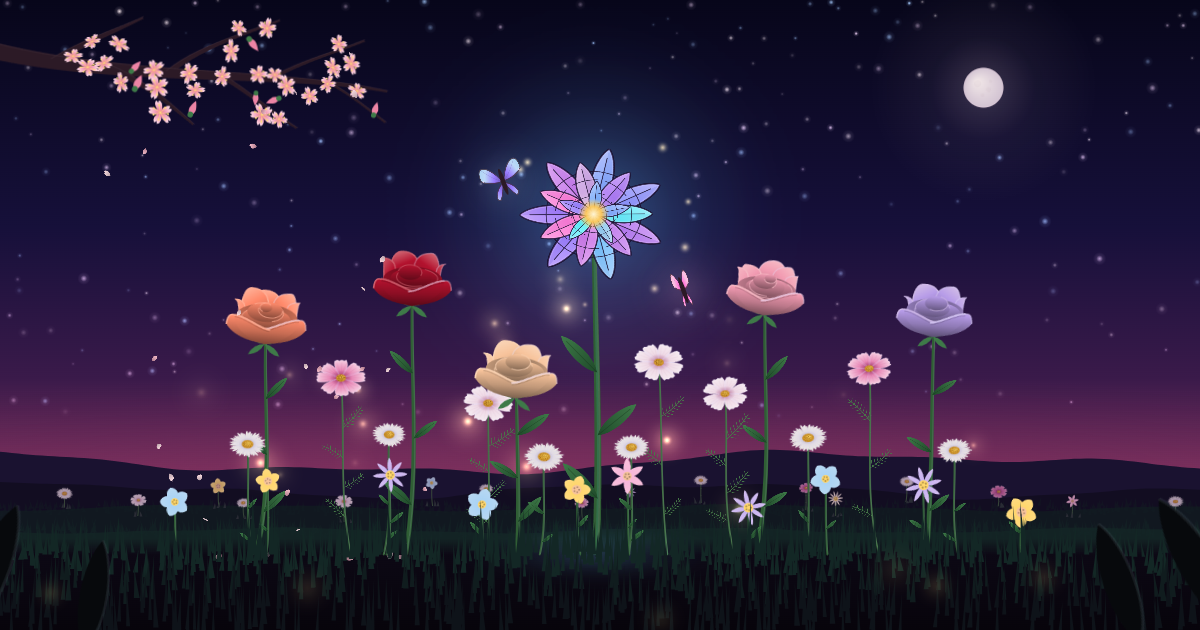
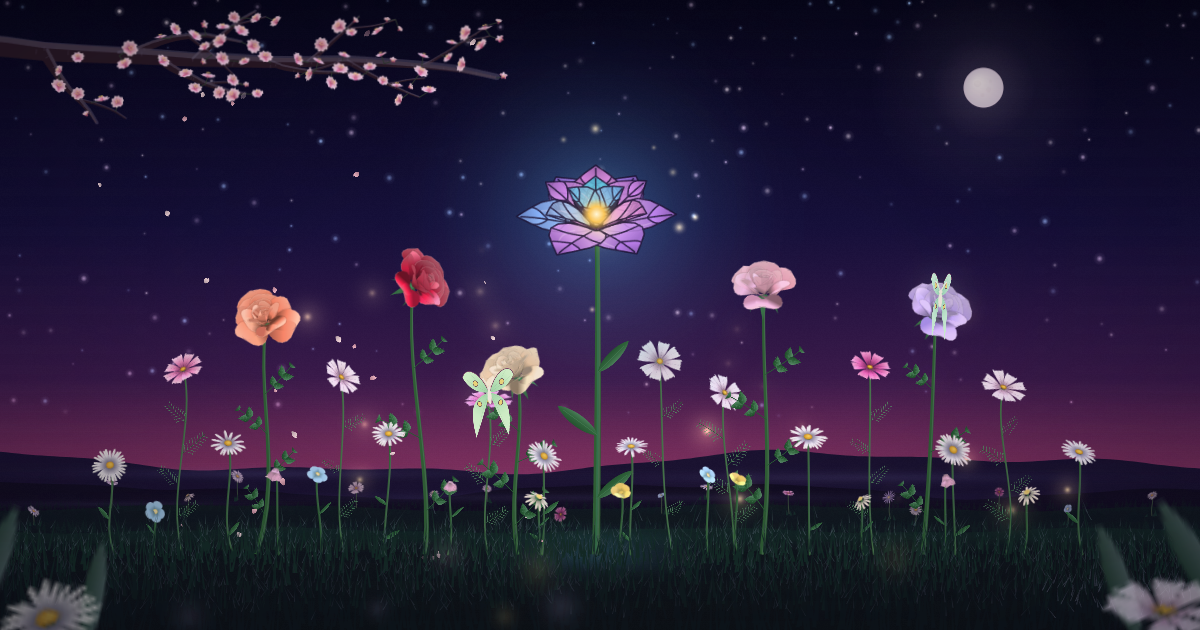
Art A7: softer petal edges, gentler wing margins, a new link preview
After a close review, the shadows where rose petals overlap are lighter so
the roses read painted rather than outlined, and the butterflies' wing
margins are thinner and softer. The link preview is rendered again from
the finished field.

diff --git a/site/index.html b/site/index.html
@@ -1508,7 +1508,7 @@ const PETAL = {
   poleGuard: 0.95, capL: 0.93,
   nu: 8, uPow: 1.3, topSamples: 4, seam: 0.05,
   shadeAt: [0, 0.5, 1], aoReach: 0.5,
-  contactW: 0.07, veinW: 0.012, veinAt: [0.25, 0.5, 0.75], toothPow: 0.7,
+  contactW: 0.05, veinW: 0.012, veinAt: [0.25, 0.5, 0.75], toothPow: 0.7,
   boundV: [-1, -0.5, 0, 0.5, 1], glossPow: 18, discHi: 0.4,
   stamenW: 0.012, stamenAlpha: 0.8, stamenMin: 0.55, stamenMix: 7,
   hashA: 12.9898, hashB: 78.233, hashC: 43758.5453, dewU: [0.45, 0.8], dewV: 0.5, dewHi: 0.35, dewCore: 0.3, dewDot: 0.28,
@@ -1556,7 +1556,7 @@ const ROSE3D = {
   strips: [2, 3],
   ao: [0.5, 0.92],
   shade: { deep: 0.42, edge: 0.3, back: 0.1, lip: 0.28, edgeTo: '#FFF1E4', goldDeep: 0.3 },
-  lip: 0.5, lipW: 0.016, lipFrom: 0.66, contact: 0.26, shadow: 0.62,
+  lip: 0.5, lipW: 0.016, lipFrom: 0.66, contact: 0.16, shadow: 0.55,
   sepals: {
     n: 5, len: 0.6, wid: 0.075, open: [0.28, 2.35], curl: [0, 0.7], z: -0.03, ring: 0.08, cup: [0.5, 0.2], ao: 0.8, backDark: 0.35, bias: -0.6,
     shape: { base: 0.5, peak: 0.22, rise: 0.8, blunt: 1.8, tipW: 0 },
@@ -5239,13 +5239,13 @@ const WINGS = {
   perch: [3.2, 7.5], perchLift: 0.22, legs: 40, bodyTilt: [-0.35, 0.35],
   flutter: [[2.3, 0.1], [1.1, 0.08]], enterY: 0.52, enterU: 2.2, poolGapU: 0.35, minHop: 1.2,
   body: { w: 0.075, l: 0.46, head: 0.07, antenna: 0.34, antennaW: 1.1, club: 0.035, bend: 0.3 },
-  edge: 0.07, edgeAlpha: 0.85, veinAlpha: 0.22, veinW: 1.4, glowAlpha: 0.12, glowU: 1,
+  edge: 0.045, edgeAlpha: 0.7, veinAlpha: 0.22, veinW: 1.4, glowAlpha: 0.12, glowU: 1,
   // day: forewing and hindwing, then marginal spots
   butterfly: {
     fore: [[0.25, -0.95], [0.95, -1.12], [1.02, -0.52], [0.72, 0.02]],
     hind: [[0.62, 0.12], [0.98, 0.5], [0.72, 0.92], [0.18, 0.62]],
     spots: [[0.82, -0.62], [0.72, -0.34], [0.66, 0.62], [0.48, 0.74]], spotR: 3.2, spotAlpha: 0.75,
-    rootDark: 0.35, flushAt: 0.7, edgeDark: 0.55, body: '#3A2436',
+    rootDark: 0.35, flushAt: 0.7, edgeDark: 0.38, body: '#3A2436',
   },
   // night: luna moths, pale green with long tails, a maroon leading edge and eyespots
   moth: {

diff --git a/src/config-flora.js b/src/config-flora.js
@@ -7,7 +7,7 @@ export const PETAL = {
   poleGuard: 0.95, capL: 0.93,
   nu: 8, uPow: 1.3, topSamples: 4, seam: 0.05,
   shadeAt: [0, 0.5, 1], aoReach: 0.5,
-  contactW: 0.07, veinW: 0.012, veinAt: [0.25, 0.5, 0.75], toothPow: 0.7,
+  contactW: 0.05, veinW: 0.012, veinAt: [0.25, 0.5, 0.75], toothPow: 0.7,
   boundV: [-1, -0.5, 0, 0.5, 1], glossPow: 18, discHi: 0.4,
   stamenW: 0.012, stamenAlpha: 0.8, stamenMin: 0.55, stamenMix: 7,
   hashA: 12.9898, hashB: 78.233, hashC: 43758.5453, dewU: [0.45, 0.8], dewV: 0.5, dewHi: 0.35, dewCore: 0.3, dewDot: 0.28,
@@ -55,7 +55,7 @@ export const ROSE3D = {
   strips: [2, 3],
   ao: [0.5, 0.92],
   shade: { deep: 0.42, edge: 0.3, back: 0.1, lip: 0.28, edgeTo: '#FFF1E4', goldDeep: 0.3 },
-  lip: 0.5, lipW: 0.016, lipFrom: 0.66, contact: 0.26, shadow: 0.62,
+  lip: 0.5, lipW: 0.016, lipFrom: 0.66, contact: 0.16, shadow: 0.55,
   sepals: {
     n: 5, len: 0.6, wid: 0.075, open: [0.28, 2.35], curl: [0, 0.7], z: -0.03, ring: 0.08, cup: [0.5, 0.2], ao: 0.8, backDark: 0.35, bias: -0.6,
     shape: { base: 0.5, peak: 0.22, rise: 0.8, blunt: 1.8, tipW: 0 },

diff --git a/src/config-wings.js b/src/config-wings.js
@@ -10,13 +10,13 @@ export const WINGS = {
   perch: [3.2, 7.5], perchLift: 0.22, legs: 40, bodyTilt: [-0.35, 0.35],
   flutter: [[2.3, 0.1], [1.1, 0.08]], enterY: 0.52, enterU: 2.2, poolGapU: 0.35, minHop: 1.2,
   body: { w: 0.075, l: 0.46, head: 0.07, antenna: 0.34, antennaW: 1.1, club: 0.035, bend: 0.3 },
-  edge: 0.07, edgeAlpha: 0.85, veinAlpha: 0.22, veinW: 1.4, glowAlpha: 0.12, glowU: 1,
+  edge: 0.045, edgeAlpha: 0.7, veinAlpha: 0.22, veinW: 1.4, glowAlpha: 0.12, glowU: 1,
   // day: forewing and hindwing, then marginal spots
   butterfly: {
     fore: [[0.25, -0.95], [0.95, -1.12], [1.02, -0.52], [0.72, 0.02]],
     hind: [[0.62, 0.12], [0.98, 0.5], [0.72, 0.92], [0.18, 0.62]],
     spots: [[0.82, -0.62], [0.72, -0.34], [0.66, 0.62], [0.48, 0.74]], spotR: 3.2, spotAlpha: 0.75,
-    rootDark: 0.35, flushAt: 0.7, edgeDark: 0.55, body: '#3A2436',
+    rootDark: 0.35, flushAt: 0.7, edgeDark: 0.38, body: '#3A2436',
   },
   // night: luna moths, pale green with long tails, a maroon leading edge and eyespots
   moth: {
